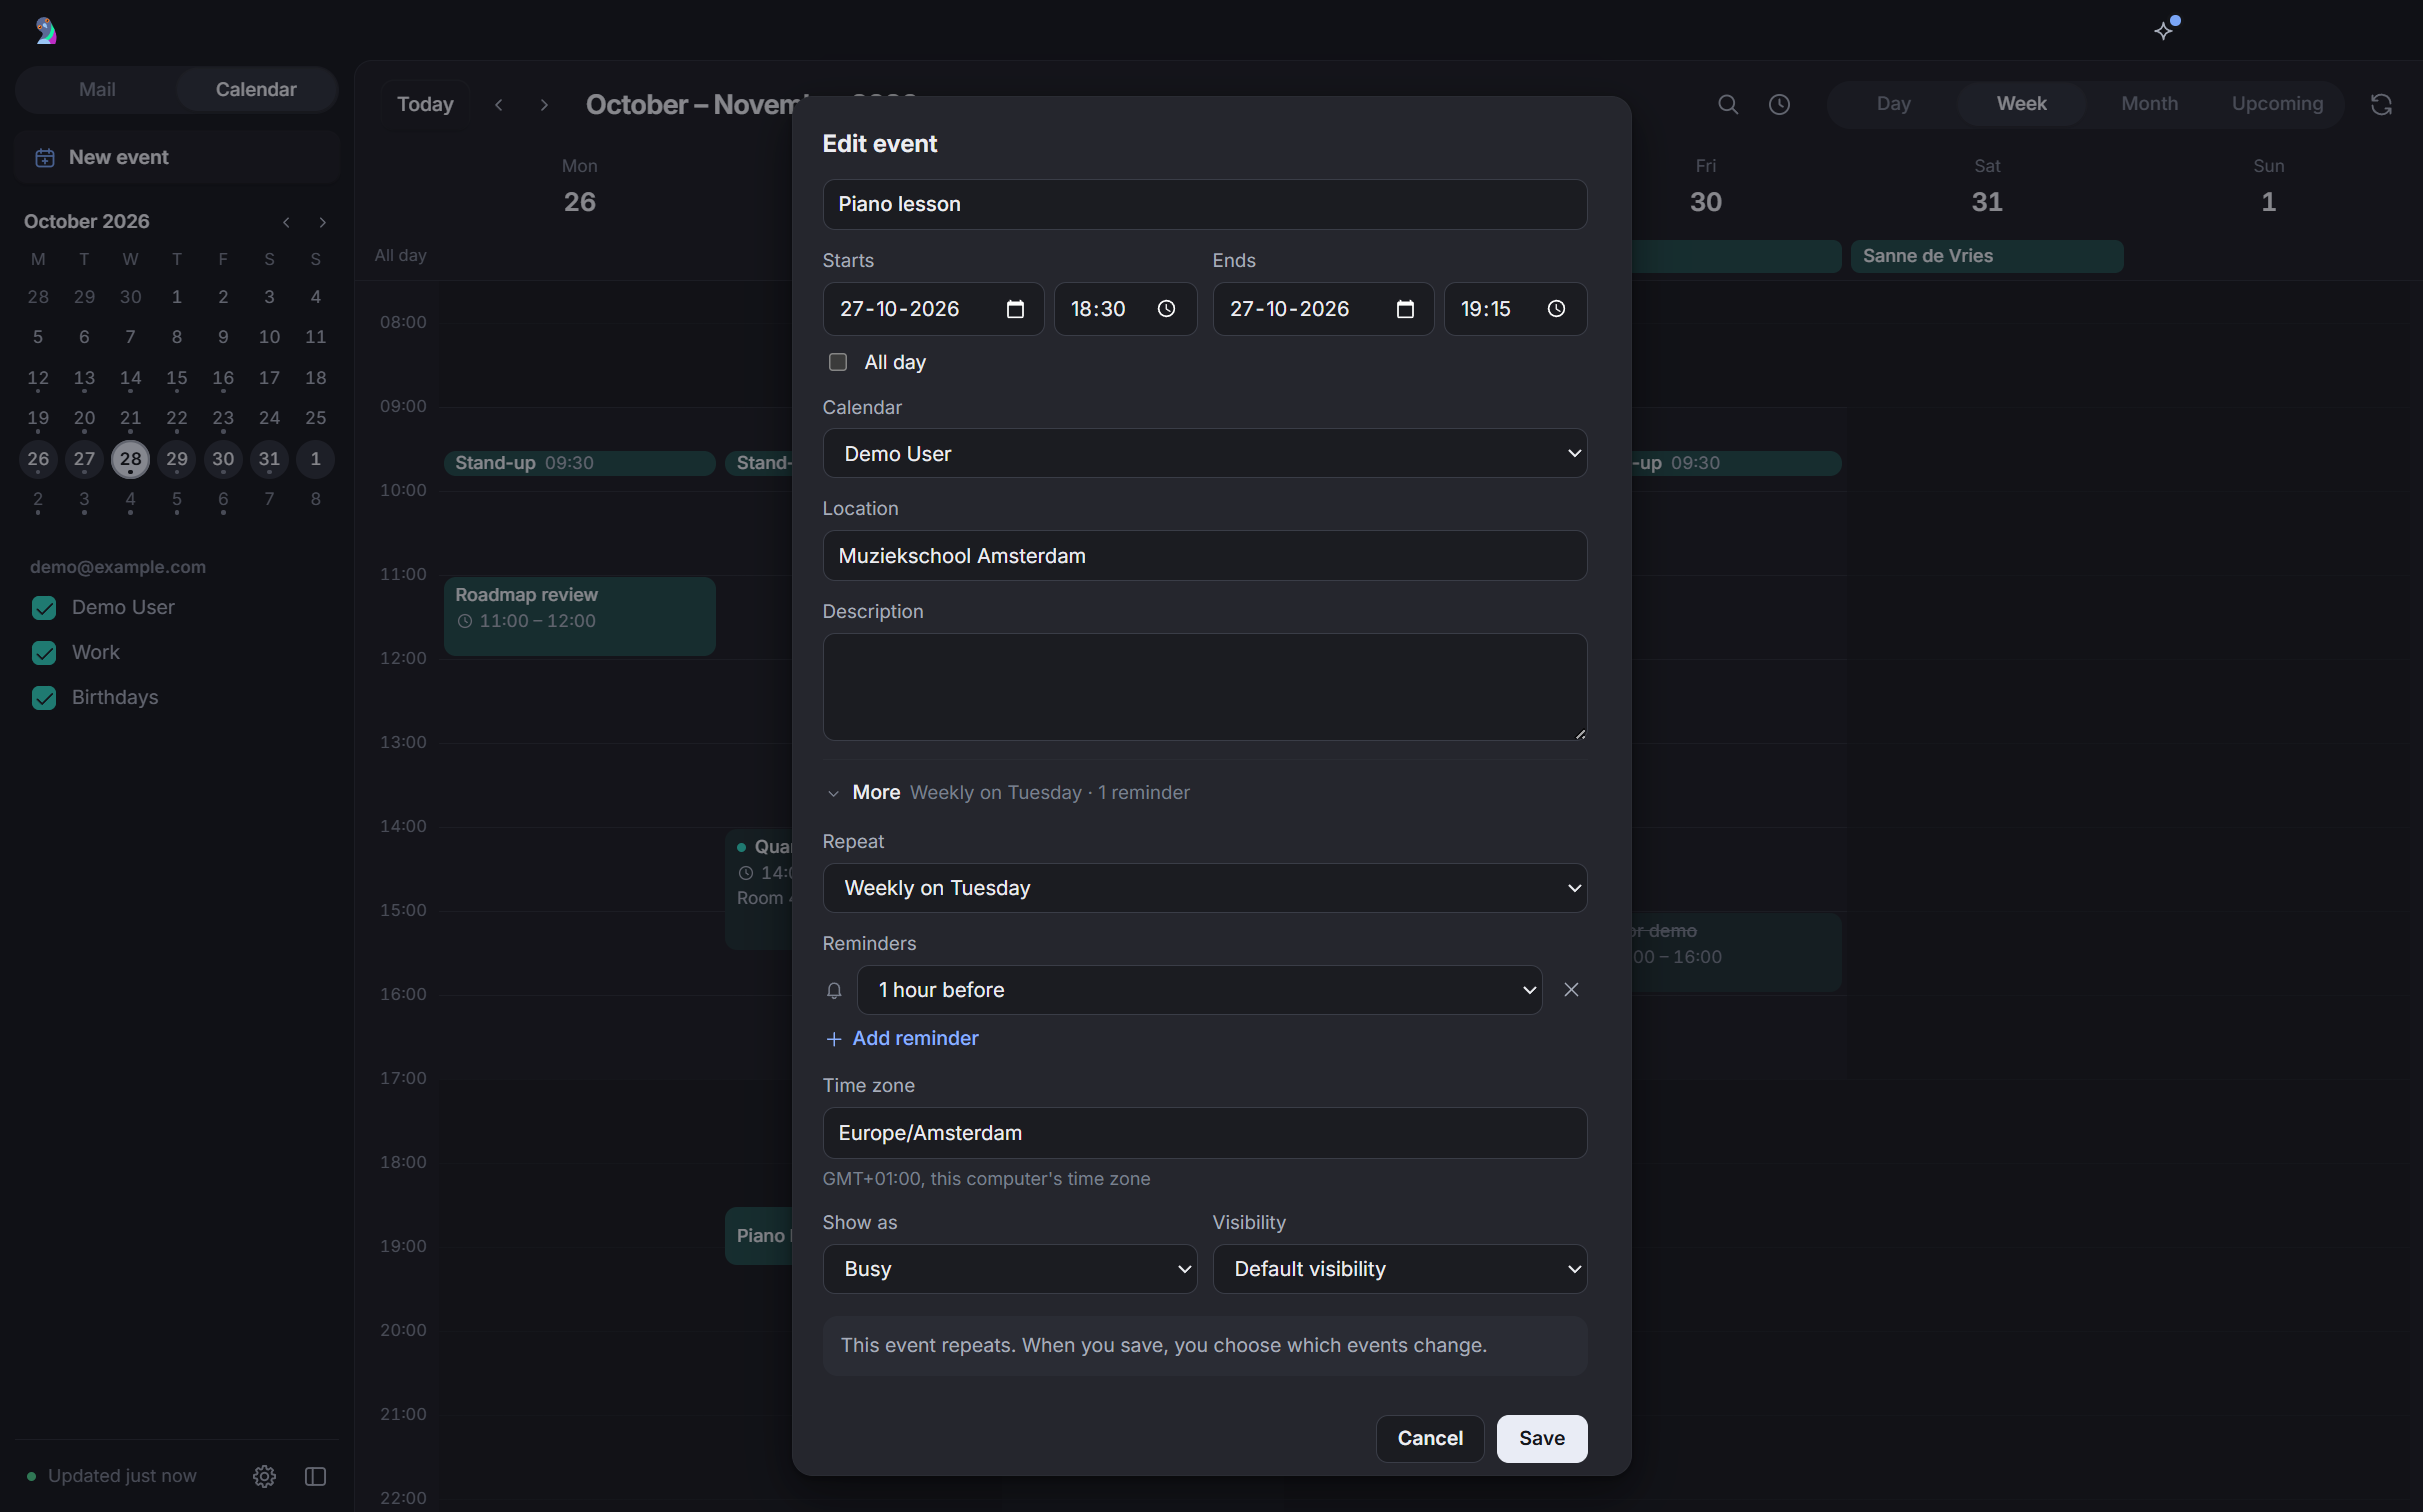
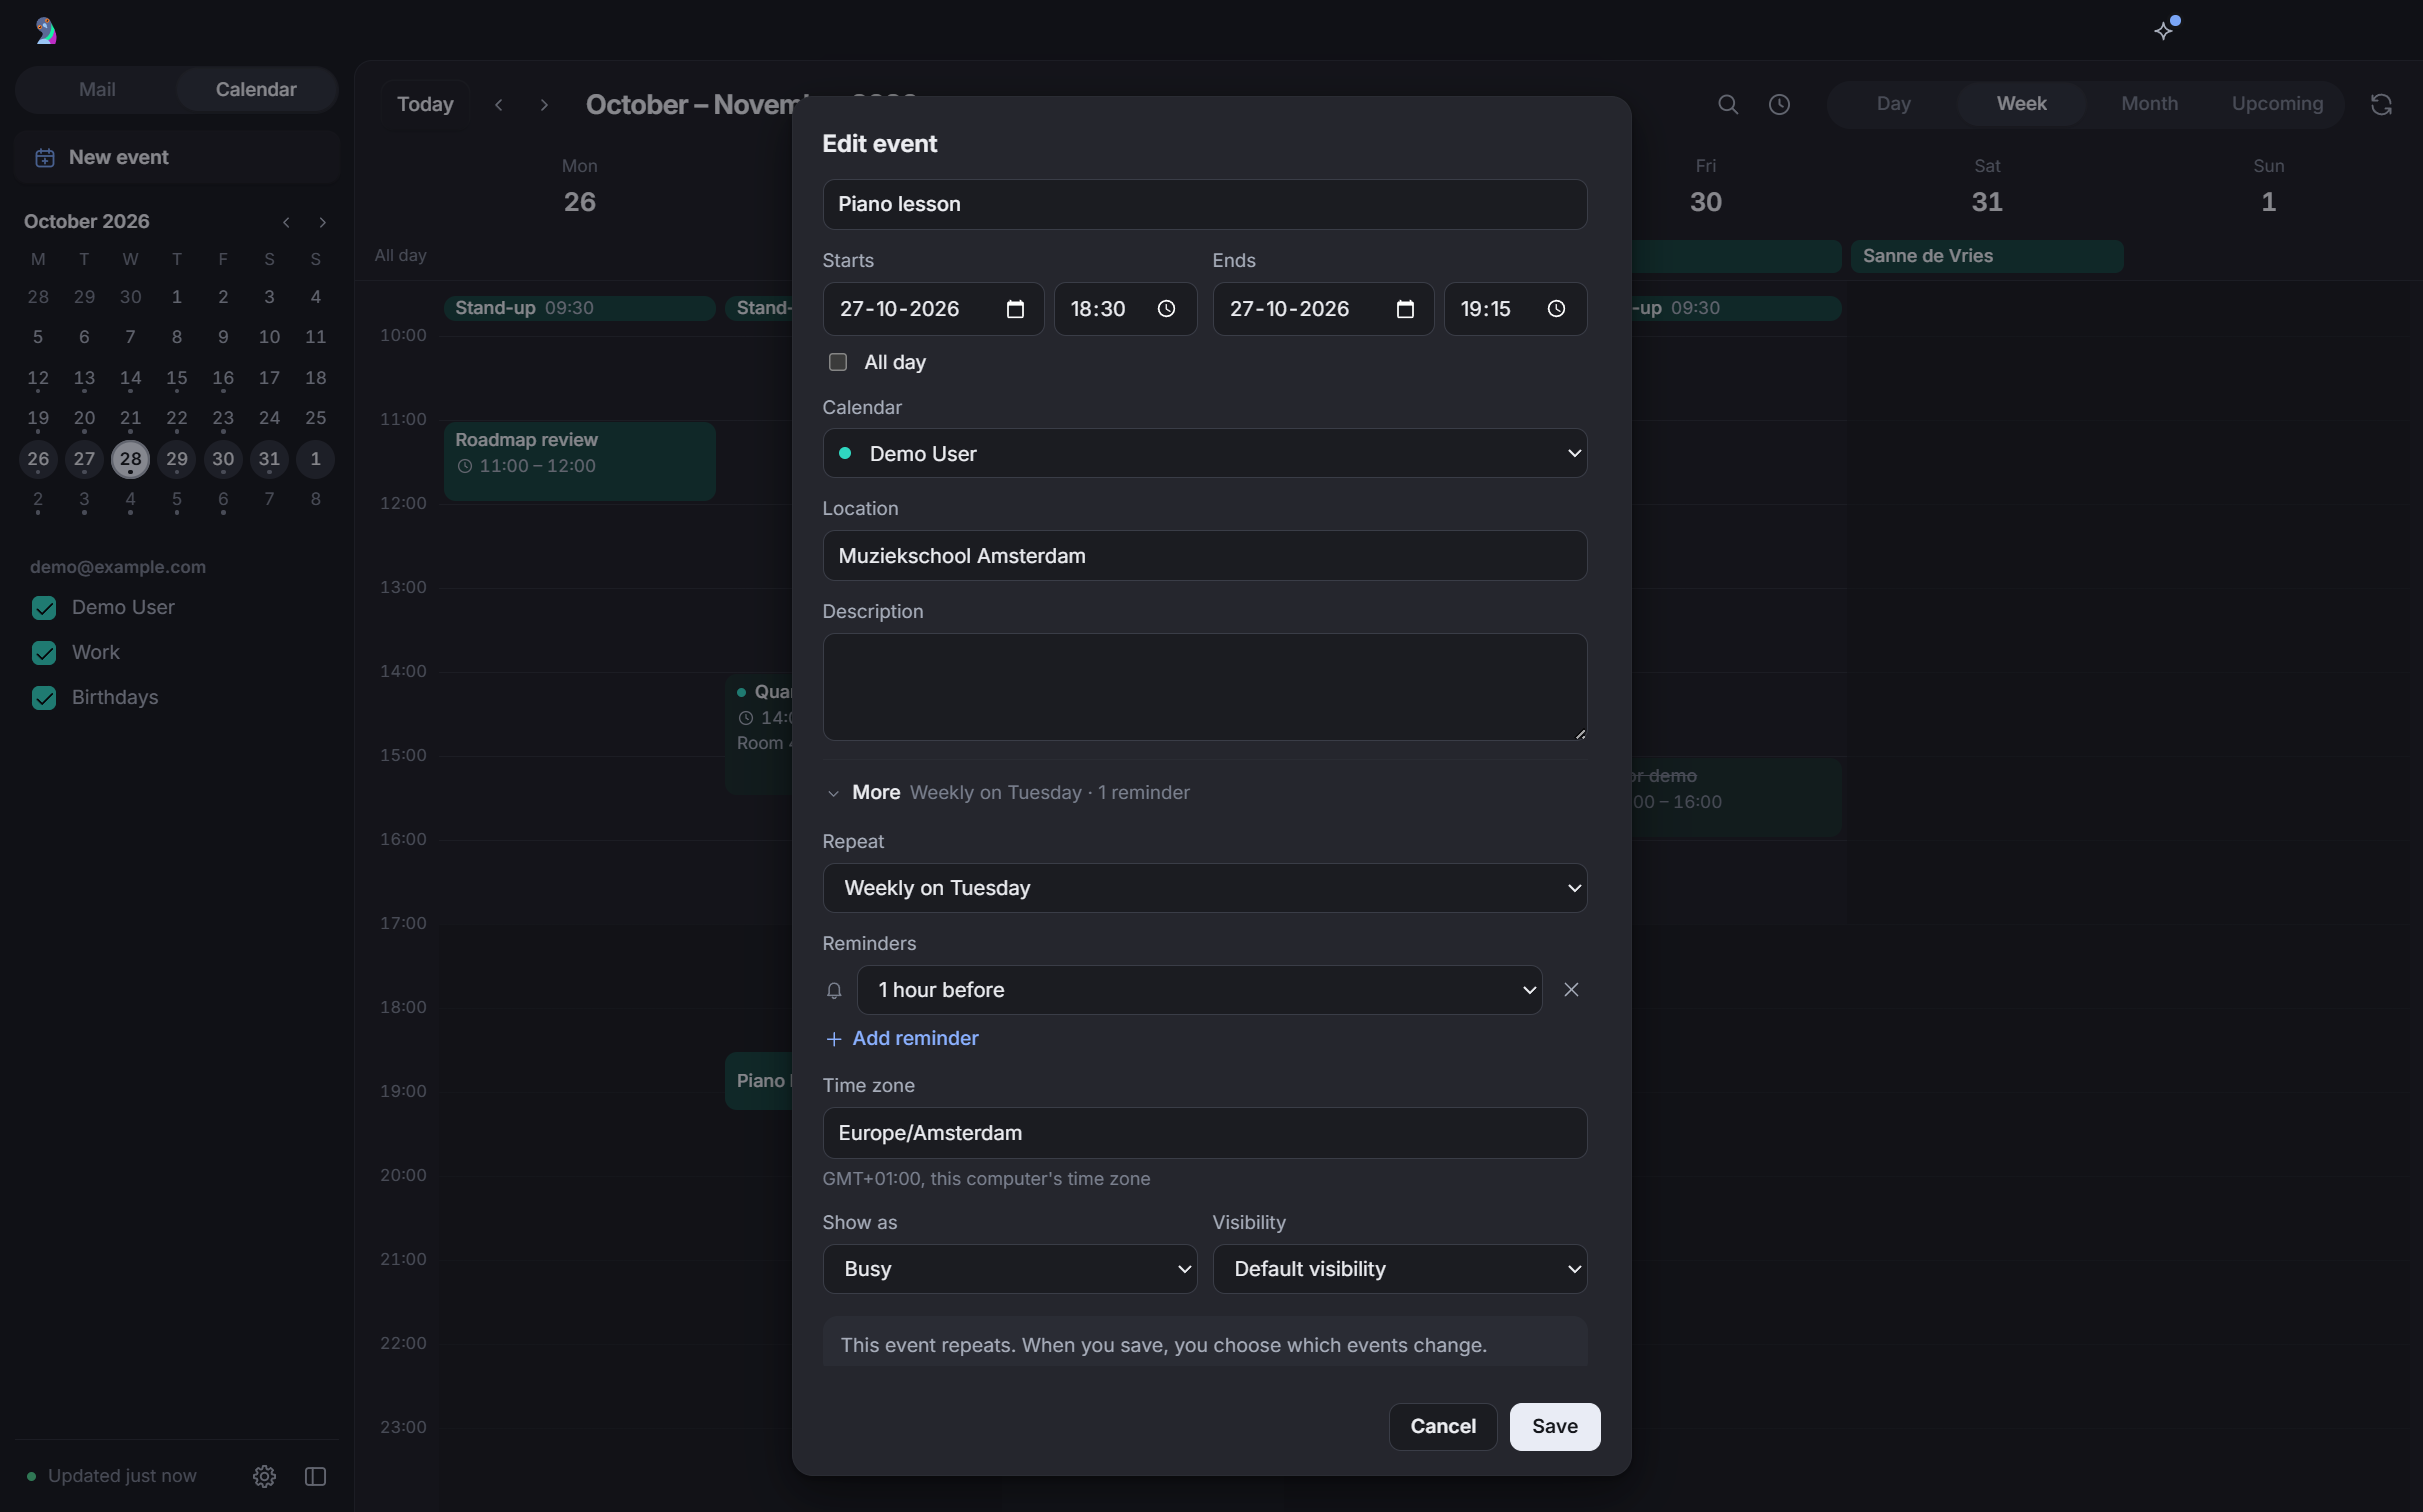
Show calendar colors at full strength on events (#155)
An event's tint was a fixed share of its calendar's colour mixed into the panel, which left Google's pastel calendars close to white in light mode and grey in dark mode. The tint is now the calendar's hue at a set lightness with its chroma capped, per state and theme, so every calendar shows at the same strength and a grey one stays grey. The calendar documentation screenshots are refreshed.

diff --git a/src/renderer/styles.css b/src/renderer/styles.css
@@ -4712,25 +4712,37 @@ body.calendar-mode .titlebar-search {
   cursor: pointer;
 }
 
-/* Events are soft cards in their account's colour: a tint, rounded corners and a little room around each, no
-   edges. How strong the tint is depends on the theme and on the answer to an invitation. */
+/* Events are soft cards in their calendar's colour: a tint, rounded corners and a little room around each, no
+   edges. The tint is that colour at a set lightness, with its chroma capped. Calendars come in every lightness,
+   Google's pastels beside deep blues, and a share of each mixed into the panel left the pastels nearly white; this
+   way every calendar shows at the same strength and its text at the same contrast, and a grey one stays grey.
+   Each level is a lightness (-l) and a chroma cap (-c); which one applies depends on the theme, on hover, on the
+   open card and on the answer to an invitation. */
 .calendar,
 .cal-pop {
-  --ev: 24%;
-  --ev-hover: 32%;
-  --ev-pale: 9%;
-  --ev-open: 40%;
+  --ev-l: 0.34;
+  --ev-c: 0.05;
+  --ev-hover-l: 0.38;
+  --ev-hover-c: 0.055;
+  --ev-pale-l: 0.265;
+  --ev-pale-c: 0.025;
+  --ev-open-l: 0.43;
+  --ev-open-c: 0.07;
 }
 :root.light .calendar,
 :root.light .cal-pop {
-  --ev: 16%;
-  --ev-hover: 23%;
-  --ev-pale: 7%;
-  --ev-open: 30%;
+  --ev-l: 0.93;
+  --ev-c: 0.055;
+  --ev-hover-l: 0.905;
+  --ev-hover-c: 0.065;
+  --ev-pale-l: 0.965;
+  --ev-pale-c: 0.022;
+  --ev-open-l: 0.87;
+  --ev-open-c: 0.08;
 }
 .cal-chip,
 .cal-ev {
-  --tint: color-mix(in srgb, var(--c) var(--ev), var(--panel));
+  --tint: oklch(from var(--c) var(--ev-l) min(c, var(--ev-c)) h);
   background: var(--tint);
   color: var(--text);
   text-align: left;
@@ -4738,7 +4750,7 @@ body.calendar-mode .titlebar-search {
 }
 .cal-chip:hover,
 .cal-ev:hover {
-  --tint: color-mix(in srgb, var(--c) var(--ev-hover), var(--panel));
+  --tint: oklch(from var(--c) var(--ev-hover-l) min(c, var(--ev-hover-c)) h);
 }
 .cal-chip {
   position: relative;
@@ -4866,11 +4878,11 @@ body.calendar-mode .titlebar-search {
    maybe is striped; declined fades and is struck through. */
 .cal-ev.needs,
 .cal-chip.needs {
-  --tint: color-mix(in srgb, var(--c) var(--ev-pale), var(--panel));
+  --tint: oklch(from var(--c) var(--ev-pale-l) min(c, var(--ev-pale-c)) h);
 }
 .cal-ev.needs:hover,
 .cal-chip.needs:hover {
-  --tint: color-mix(in srgb, var(--c) var(--ev), var(--panel));
+  --tint: oklch(from var(--c) var(--ev-l) min(c, var(--ev-c)) h);
 }
 .cal-ev.needs .t::before,
 .cal-chip.needs .t::before {
@@ -4885,11 +4897,11 @@ body.calendar-mode .titlebar-search {
 }
 .cal-ev.maybe,
 .cal-chip.maybe {
-  background: repeating-linear-gradient(135deg, var(--tint) 0 6px, color-mix(in srgb, var(--c) var(--ev-pale), var(--panel)) 6px 12px);
+  background: repeating-linear-gradient(135deg, var(--tint) 0 6px, oklch(from var(--c) var(--ev-pale-l) min(c, var(--ev-pale-c)) h) 6px 12px);
 }
 .cal-ev.declined,
 .cal-chip.declined {
-  --tint: color-mix(in srgb, var(--c) var(--ev-pale), var(--panel));
+  --tint: oklch(from var(--c) var(--ev-pale-l) min(c, var(--ev-pale-c)) h);
   color: var(--text-3);
 }
 .cal-ev.declined .t,
@@ -4904,7 +4916,7 @@ body.calendar-mode .titlebar-search {
 .cal-ev.open,
 .cal-chip.open {
   z-index: 2;
-  --tint: color-mix(in srgb, var(--c) var(--ev-open), var(--panel));
+  --tint: oklch(from var(--c) var(--ev-open-l) min(c, var(--ev-open-c)) h);
   box-shadow: var(--shadow-sm);
   color: var(--text);
 }
@@ -4962,7 +4974,7 @@ body.calendar-mode .titlebar-search {
 /* A row is a soft card in its account's colour, like the events in the week. Everything in it hangs from the
    first line: the time, the dot, the title, a pill and the guests. */
 .cal-row {
-  --tint: color-mix(in srgb, var(--c) var(--ev-pale), var(--panel));
+  --tint: oklch(from var(--c) var(--ev-pale-l) min(c, var(--ev-pale-c)) h);
   display: flex;
   align-items: flex-start;
   gap: 12px;
@@ -4976,7 +4988,7 @@ body.calendar-mode .titlebar-search {
 }
 .cal-row:hover,
 .cal-row.open {
-  --tint: color-mix(in srgb, var(--c) var(--ev), var(--panel));
+  --tint: oklch(from var(--c) var(--ev-l) min(c, var(--ev-c)) h);
 }
 .cal-row-time {
   width: 104px;
@@ -5666,16 +5678,16 @@ button.cal-title:hover {
 .cal-ev.cal-ghost {
   z-index: 4;
   pointer-events: none;
-  --tint: color-mix(in srgb, var(--c) var(--ev-open), var(--panel));
+  --tint: oklch(from var(--c) var(--ev-open-l) min(c, var(--ev-open-c)) h);
   box-shadow: var(--shadow);
 }
 .cal-ev.cal-ghost.new {
-  --tint: color-mix(in srgb, var(--c) var(--ev), var(--panel));
+  --tint: oklch(from var(--c) var(--ev-l) min(c, var(--ev-c)) h);
   box-shadow: inset 0 0 0 1.5px color-mix(in srgb, var(--c) 60%, transparent), var(--shadow-sm);
 }
 .cal-allday-cell.drop,
 .cal-mcell.drop {
-  background: color-mix(in srgb, var(--c) var(--ev-pale), transparent);
+  background: oklch(from var(--c) var(--ev-pale-l) min(c, var(--ev-pale-c)) h);
   box-shadow: inset 0 0 0 1.5px color-mix(in srgb, var(--c) 55%, transparent);
 }
 .cal-allday-cell.drop {
@@ -5790,12 +5802,12 @@ button.cal-title:hover {
   height: 7px;
 }
 .cal-mchip.span {
-  --tint: color-mix(in srgb, var(--c) var(--ev), var(--panel));
+  --tint: oklch(from var(--c) var(--ev-l) min(c, var(--ev-c)) h);
   background: var(--tint);
   font-weight: 500;
 }
 .cal-mchip.span:hover {
-  --tint: color-mix(in srgb, var(--c) var(--ev-hover), var(--panel));
+  --tint: oklch(from var(--c) var(--ev-hover-l) min(c, var(--ev-hover-c)) h);
 }
 .cal-mchip.timed:hover {
   background: var(--hover);
@@ -5811,10 +5823,10 @@ button.cal-title:hover {
   border-bottom-right-radius: 0;
 }
 .cal-mchip.span.needs {
-  --tint: color-mix(in srgb, var(--c) var(--ev-pale), var(--panel));
+  --tint: oklch(from var(--c) var(--ev-pale-l) min(c, var(--ev-pale-c)) h);
 }
 .cal-mchip.span.maybe {
-  background: repeating-linear-gradient(135deg, var(--tint) 0 6px, color-mix(in srgb, var(--c) var(--ev-pale), var(--panel)) 6px 12px);
+  background: repeating-linear-gradient(135deg, var(--tint) 0 6px, oklch(from var(--c) var(--ev-pale-l) min(c, var(--ev-pale-c)) h) 6px 12px);
 }
 .cal-mchip.timed.needs .cal-dot {
   background: none;
@@ -5829,7 +5841,7 @@ button.cal-title:hover {
   box-shadow: var(--shadow-sm);
 }
 .cal-mchip.span.open {
-  --tint: color-mix(in srgb, var(--c) var(--ev-open), var(--panel));
+  --tint: oklch(from var(--c) var(--ev-open-l) min(c, var(--ev-open-c)) h);
   background: var(--tint);
 }
 .cal-mchip:focus-visible,
